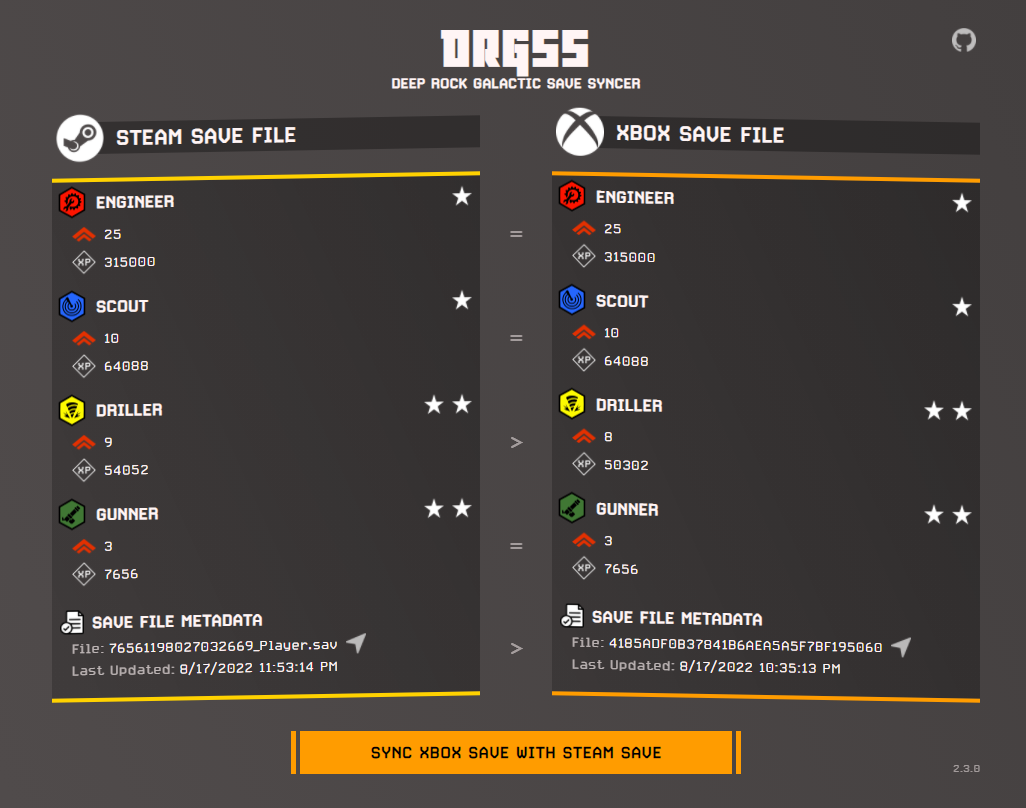
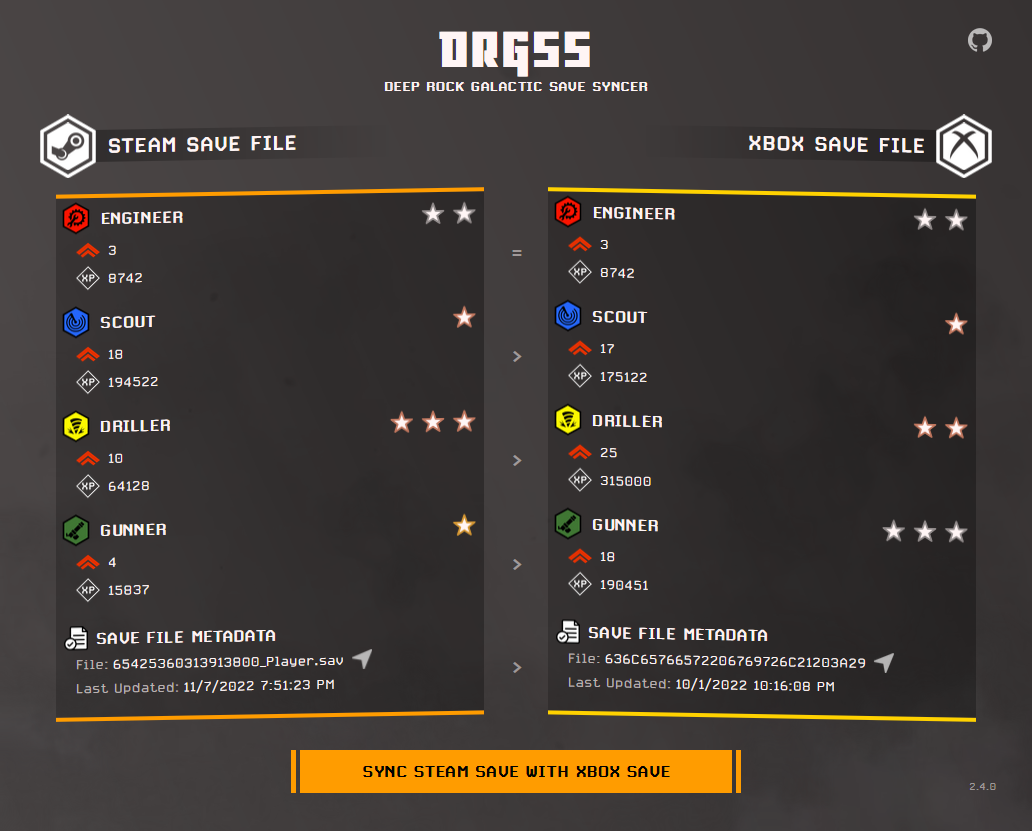
Updated the README to reflect recent UI changes
- Updated the app's example images

diff --git a/README.md b/README.md
@@ -25,7 +25,7 @@ Granular save file comparison lets you see what's changed at a glance:
 
 <p align="center"><img src="https://raw.githubusercontent.com/naschorr/deep-rock-galactic-save-syncer/main/resources/images/example_comparison.png" /></p>
 
-> Notice that the Driller on the left has one more promotion than the one on the right, which the `>` comparison operator in the middle confirms.
+> Notice that the Gunner on the left has been promoted once to Gold I, while the one on the right is still Silver III. Since the left Gunner has more promotions, it means that the left save file has likely been played more recently. The `>` operator in the middle confirms this.
 
 ### One-click operation by default
 The big button at the bottom lets you know what's going to happen:
